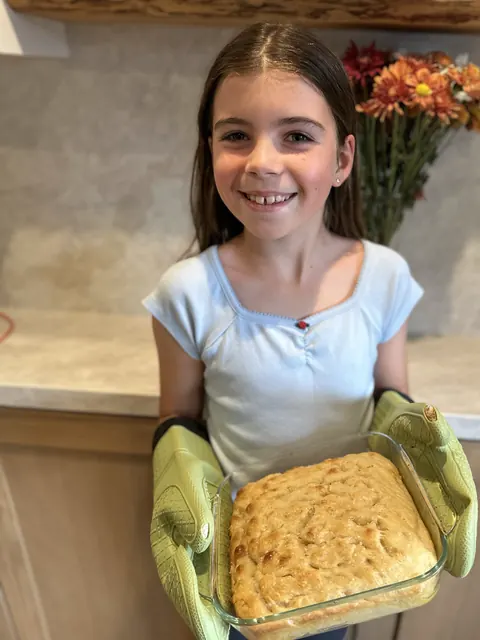
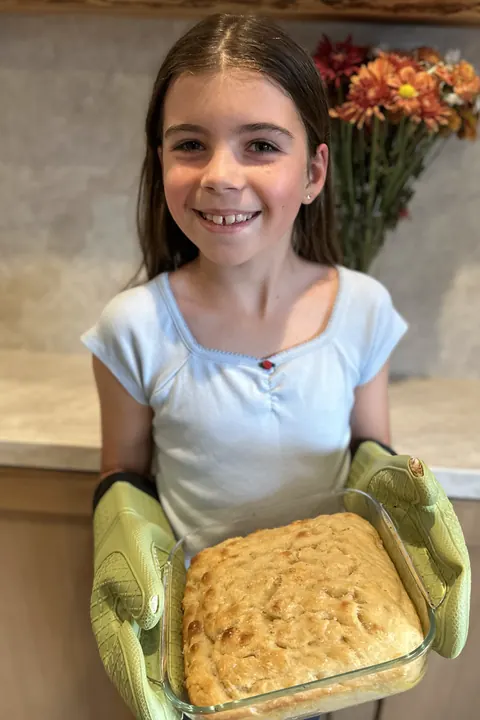
Re-crop About photo so Ruby is centered (2:3 portrait)

diff --git a/index.html b/index.html
@@ -193,7 +193,7 @@
         <div><span class="who">Dad</span><span class="what"><b>Website guy.</b> This page, the QR code, and deliveries when asked nicely.</span></div>
       </div>
     </div>
-    <div class="visual"><img class="photo" src="/img/ruby.webp" srcset="/img/ruby.webp 480w, /img/ruby@2x.webp 960w" sizes="(max-width: 760px) min(calc(100vw - 32px), 360px), 360px" width="480" height="640" loading="lazy" decoding="async" alt="Ruby smiling in the kitchen, holding a fresh pan of focaccia in green oven mitts."></div>
+    <div class="visual"><img class="photo" src="/img/ruby.webp" srcset="/img/ruby.webp 480w, /img/ruby@2x.webp 960w" sizes="(max-width: 760px) min(calc(100vw - 32px), 360px), 360px" width="480" height="720" loading="lazy" decoding="async" alt="Ruby smiling in the kitchen, holding a fresh pan of focaccia in green oven mitts."></div>
   </div>
 </section>
 </main>

diff --git a/css/site.css b/css/site.css
@@ -214,7 +214,7 @@ section{scroll-margin-top:72px}
 @media (max-width:640px){ .steps{grid-template-columns:1fr} }
 .eyebrow{line-height:1.15}
 /* About: photo of Ruby (no location data in the file) */
-.about .visual img.photo{aspect-ratio:3/4;object-fit:cover;border-radius:20px;filter:none;box-shadow:0 10px 28px rgba(60,50,20,.18)}
+.about .visual img.photo{aspect-ratio:2/3;object-fit:cover;border-radius:20px;filter:none;box-shadow:0 10px 28px rgba(60,50,20,.18)}
 /* About on narrow screens: heading, quote, then the photo, then the rest of the text.
    display:contents lets the photo slot in between the text blocks. */
 @media (max-width:760px){
